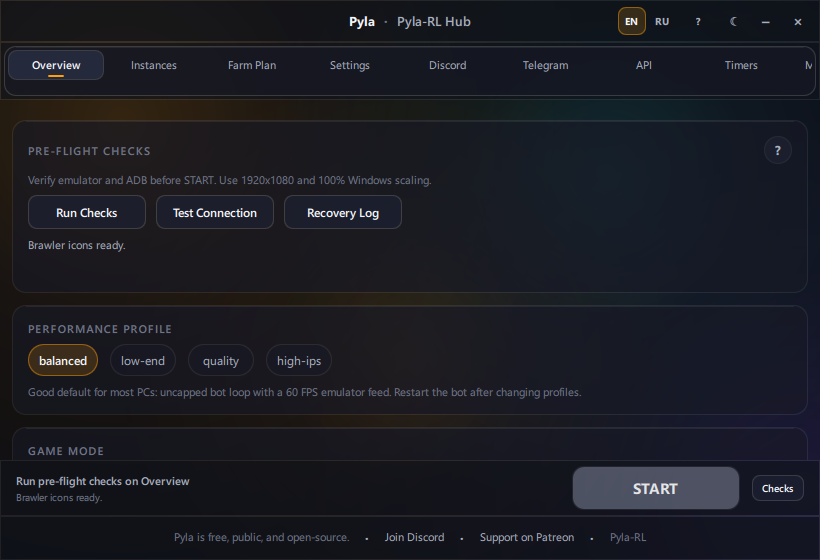
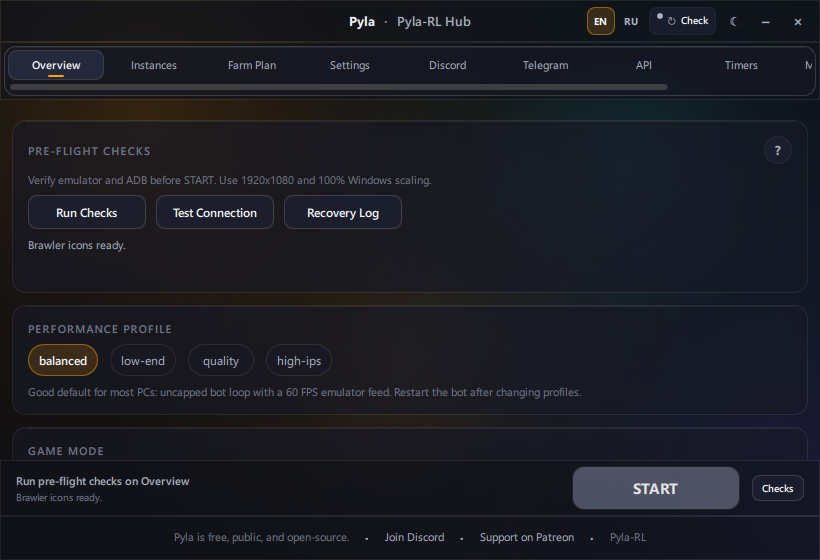
Make Hub update pill clearly visible in the title bar.
Give the pill a bordered panel, status dot, icon, and label; refresh status on the UI thread; relabel unknown state as Check.

Changed region(s): [[0.0, 0.1518, 0.8232, 0.1821], [0.7012, 0.0, 0.8841, 0.0607]]

diff --git a/app/gui/qml/PylaHub.qml b/app/gui/qml/PylaHub.qml
@@ -76,12 +76,16 @@ ApplicationWindow {
         return text
     }
 
+    readonly property string updatePillStatus: (hubState.updateStatus && hubState.updateStatus.status)
+        ? hubState.updateStatus.status
+        : "unknown"
+
     function updateStatusValue() {
-        return (hubState.updateStatus && hubState.updateStatus.status) ? hubState.updateStatus.status : "unknown"
+        return updatePillStatus
     }
 
     function updatePillLabel() {
-        var status = updateStatusValue()
+        var status = updatePillStatus
         if (status === "available") {
             return t("update.pill_available")
         }
@@ -89,6 +93,26 @@ ApplicationWindow {
             return t("update.pill_ok")
         }
         return t("update.pill_unknown")
+    }
+
+    function updatePillGlyph() {
+        if (updatePillStatus === "available") {
+            return "\u2B06"
+        }
+        if (updatePillStatus === "current") {
+            return "\u2713"
+        }
+        return "\u21BB"
+    }
+
+    function updatePillDotColor() {
+        if (updatePillStatus === "current") {
+            return theme.ok
+        }
+        if (updatePillStatus === "available") {
+            return theme.accent
+        }
+        return theme.muted
     }
 
     function updatePillTooltip() {
@@ -2638,35 +2662,43 @@ ApplicationWindow {
                     }
                     Rectangle {
                         id: updatePill
-                        width: Math.max(updatePillRow.implicitWidth + 14, 36)
+                        z: 2
+                        width: Math.max(updatePillRow.implicitWidth + 16, 62)
                         height: 28
                         radius: 8
                         color: {
-                            var status = root.updateStatusValue()
-                            if (status === "available") {
+                            if (root.updatePillStatus === "available") {
                                 return updateMouse.containsMouse ? theme.accentSoft : theme.warnSoft
                             }
-                            return updateMouse.containsMouse ? theme.hover : "transparent"
+                            if (updateMouse.containsMouse) {
+                                return theme.hover
+                            }
+                            return theme.panel2
                         }
-                        border.width: root.updateStatusValue() === "available" ? 1 : 0
-                        border.color: theme.accentBorder
+                        border.width: 1
+                        border.color: root.updatePillStatus === "available" ? theme.accentBorder : theme.borderSoft
 
                         Row {
                             id: updatePillRow
                             anchors.centerIn: parent
                             spacing: 5
                             Rectangle {
-                                visible: root.updateStatusValue() === "available"
                                 width: 6
                                 height: 6
                                 radius: 3
-                                color: theme.accent
+                                color: root.updatePillDotColor()
+                            }
+                            Text {
+                                text: root.updatePillGlyph()
+                                color: root.updatePillStatus === "available" ? theme.accent : theme.muted
+                                font.pixelSize: 11
+                                font.weight: Font.Bold
                             }
                             Text {
                                 text: root.updatePillLabel()
-                                color: root.updateStatusValue() === "available" ? theme.accent : theme.muted
+                                color: root.updatePillStatus === "available" ? theme.accent : theme.text
                                 font.pixelSize: 10
-                                font.weight: Font.Bold
+                                font.weight: Font.DemiBold
                             }
                         }
 

diff --git a/app/gui/qml_hub.py b/app/gui/qml_hub.py
@@ -141,10 +141,15 @@ class QmlHub:
                         from gui.hub_update_status import check_update_status
                         from utils import project_root
 
-                        self._store.set_update_status(check_update_status(project_root()))
-                        self.updateStatusRefreshed.emit()
+                        status = check_update_status(project_root())
                     except Exception:
-                        pass
+                        return
+
+                    def apply():
+                        self._store.set_update_status(status)
+                        self.updateStatusRefreshed.emit()
+
+                    QTimer.singleShot(0, apply)
 
                 threading.Thread(target=work, daemon=True).start()
 

diff --git a/app/tests/test_qml_hub.py b/app/tests/test_qml_hub.py
@@ -441,6 +441,8 @@ class QmlHubStateTests(unittest.TestCase):
 
         self.assertIn("id: updatePill", qml)
         self.assertIn("id: updatePopover", qml)
+        self.assertIn("updatePillStatus", qml)
+        self.assertIn("updatePillGlyph", qml)
         self.assertIn("launch-updater", qml)
         self.assertIn("refresh-update-status", qml)
         self.assertIn("updateStatusRefreshed", hub_py)
